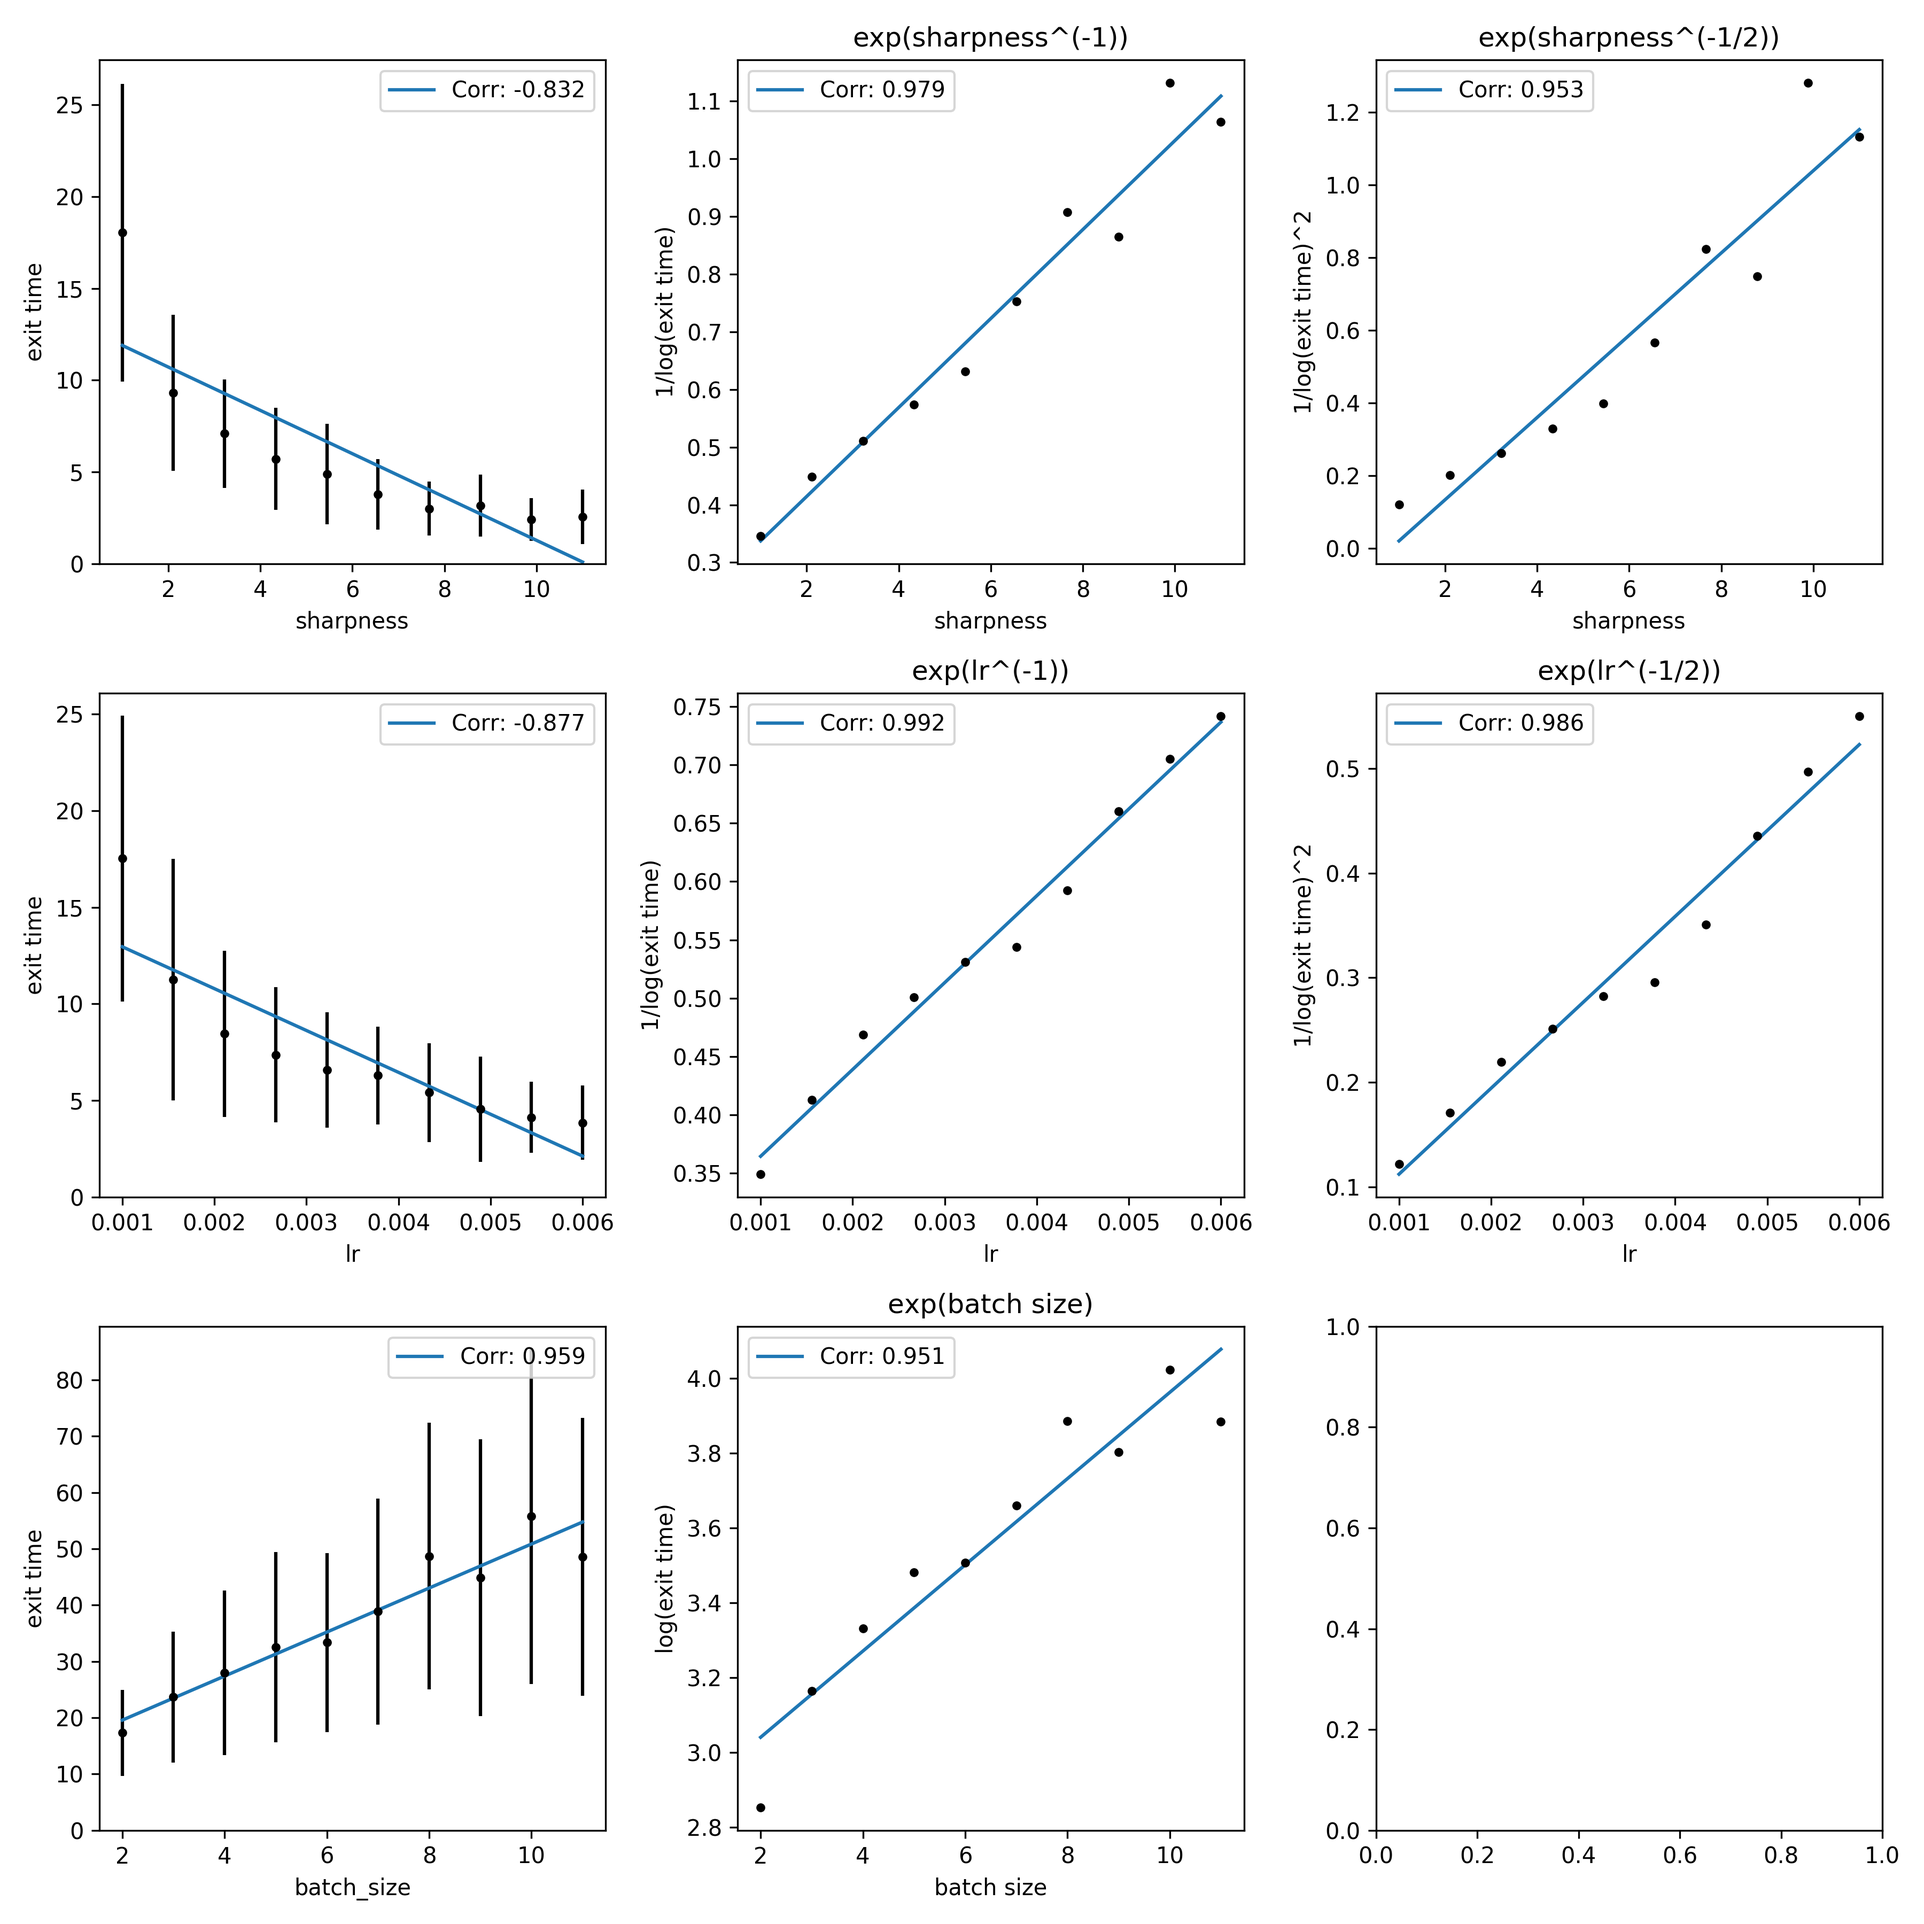
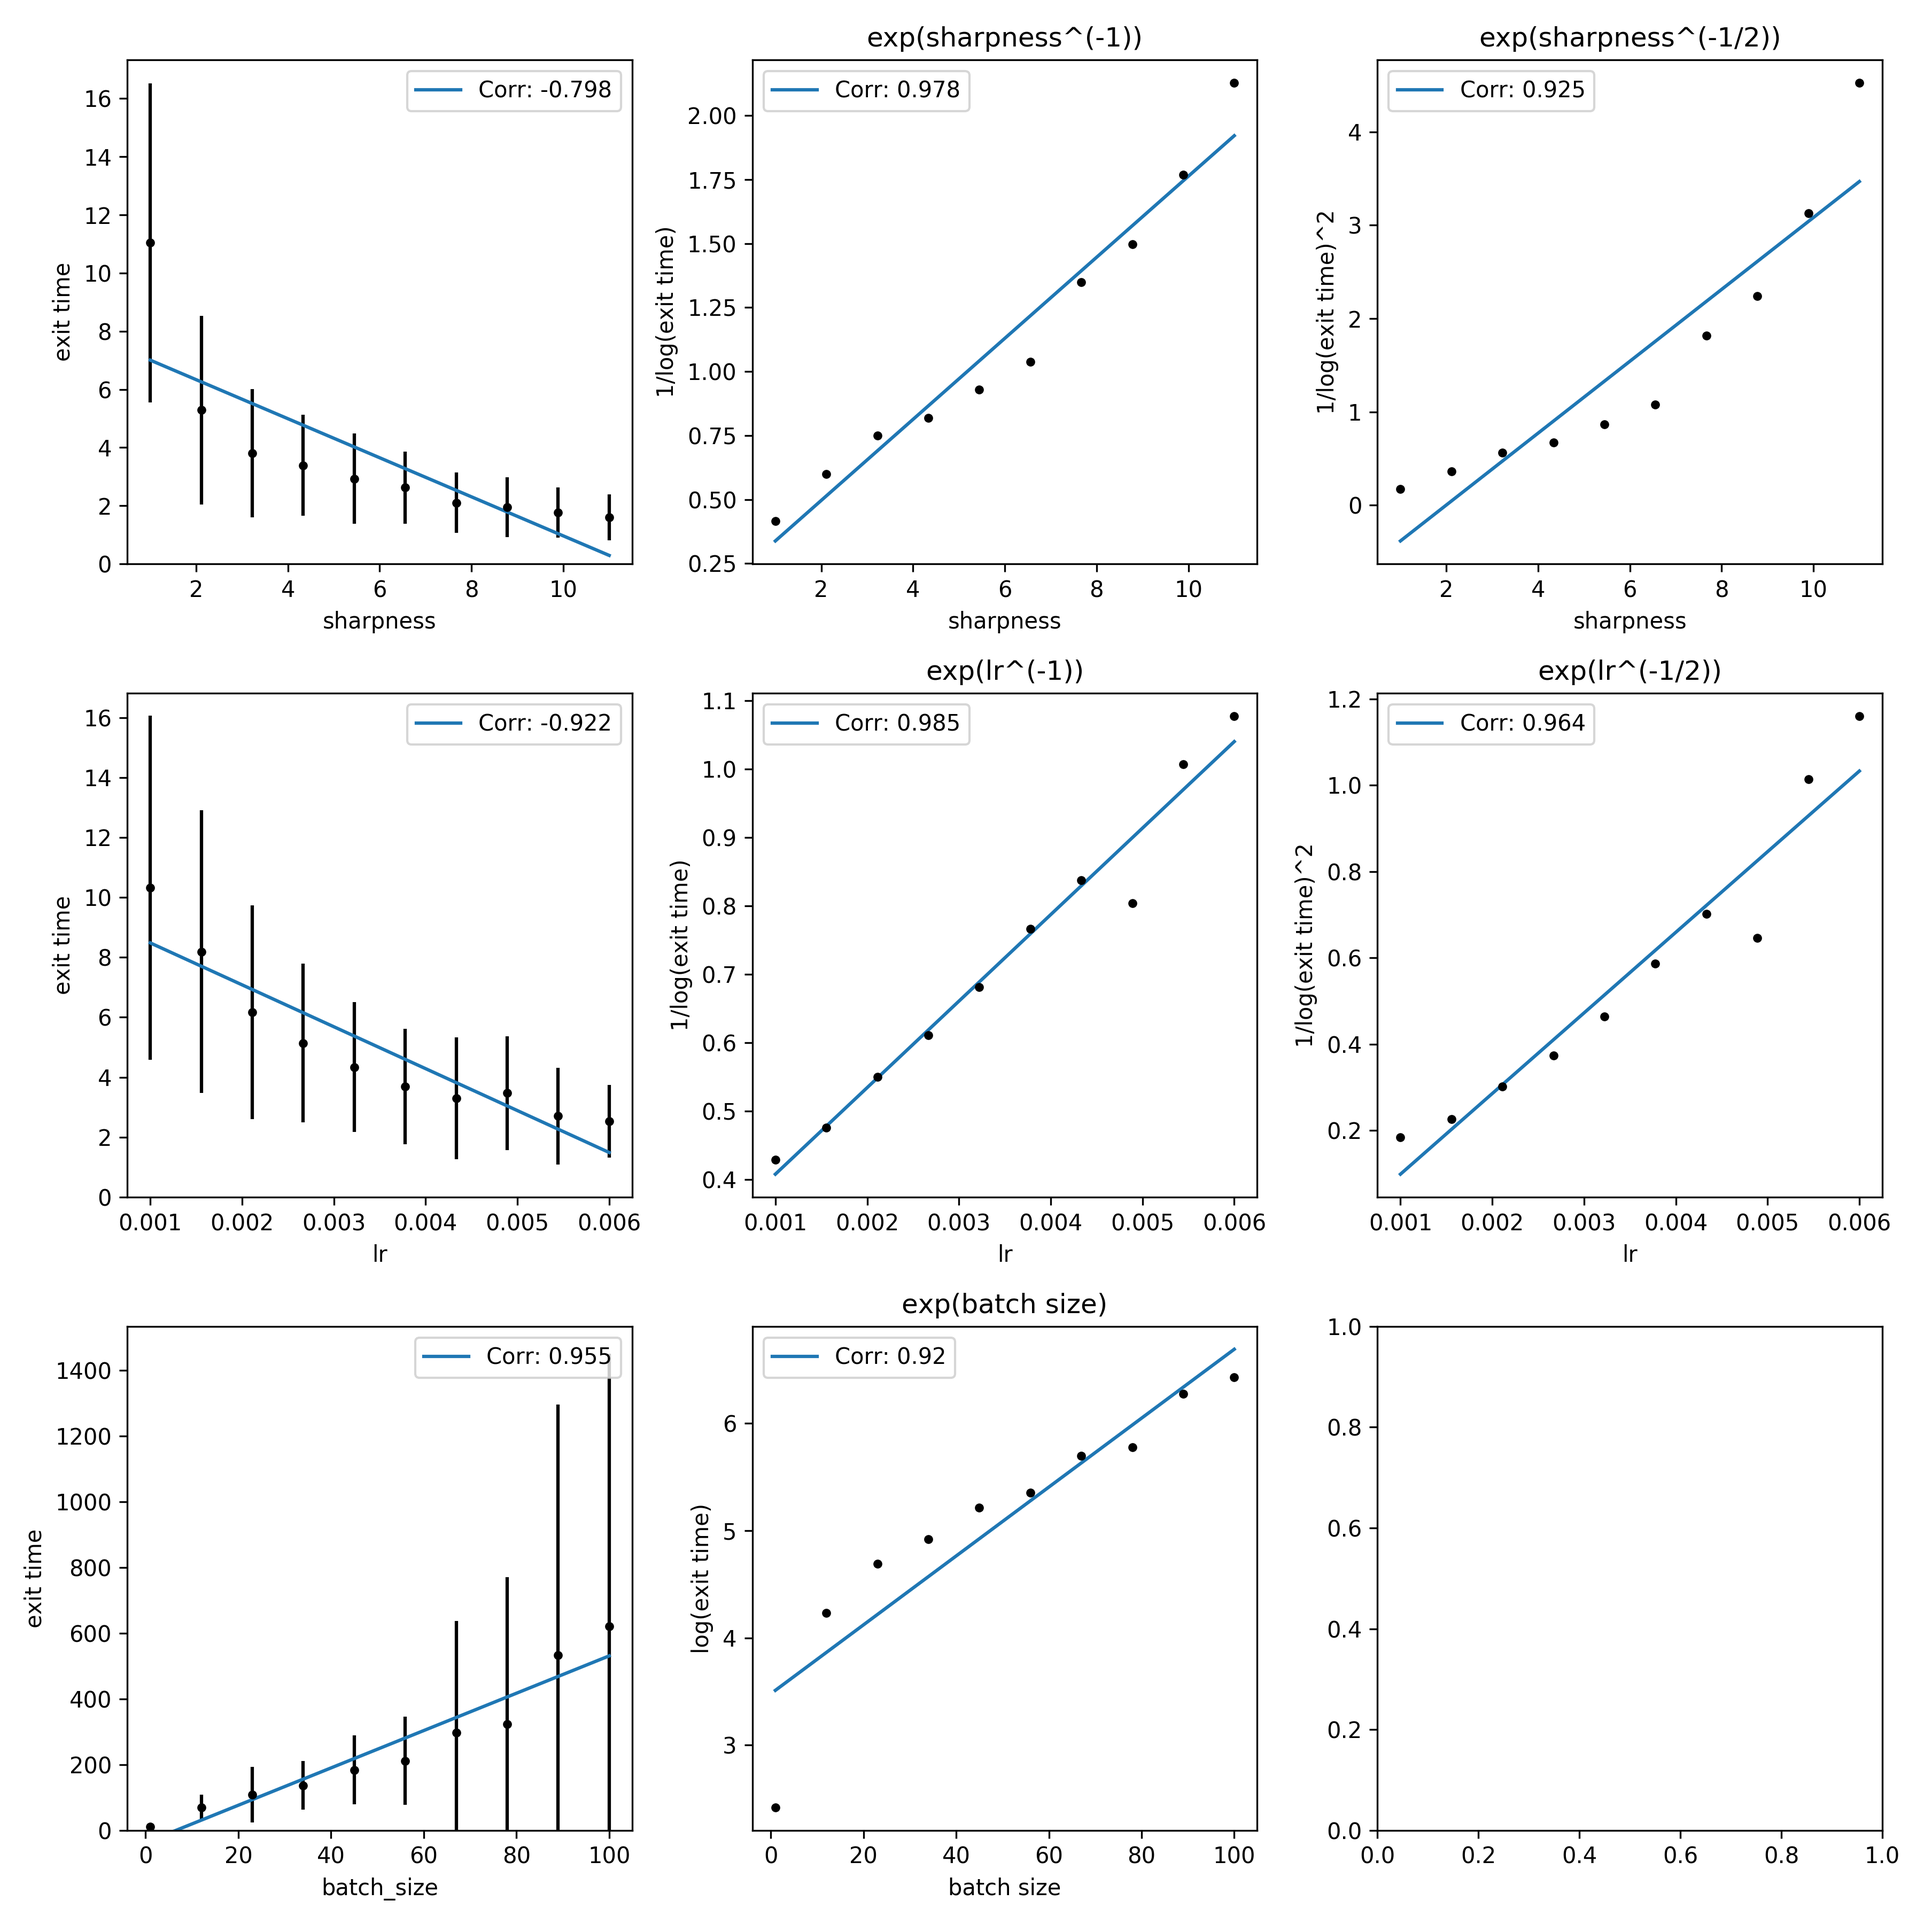
update

diff --git a/exit_time.py b/exit_time.py
@@ -249,21 +249,7 @@ def draw(sharpness_results, lr_results, batch_size_results):
     ax3[1].plot(x_2, m_2*x_2 + c_2)
     ax3[1].legend([f'Corr: {coeff_2:.3g}'])
     ax3[1].set_title(f'exp(batch size)')
-    #
-    # x_3 = x
-    # y_3 = 1/(np.log(y)**2)
-    # coeff_3, _ = stats.pearsonr(x_3, y_3)
-    # A = np.vstack([x_3, np.ones(len(x_3))]).T
-    # m_3, c_3 = np.linalg.lstsq(A, y_3, rcond=None)[0]
-    # ax3[2].set_xlabel("lr")
-    # ax3[2].set_ylabel("1/log(exit time)^2")
-    # ax3[2].errorbar(x_3, y_3, yerr=std*0, fmt='.k') 
-    # ax3[2].plot(x_3, m_3*x_3 + c_3)
-    # ax3[2].legend([f'Corr: {coeff_3:.3g}'])
-    # ax3[2].set_title(f'exp(lr^(-1/2))')
-    # draw_subfig(ax3, *batch_size_results, "batch_size")
 
-    # plt.suptitle(datetime.datetime.now().strftime('    %H:%M:%S'))
     plt.tight_layout()
     plt.show()
     fig.savefig("results.png",dpi=300)
@@ -284,8 +270,8 @@ def main():
     config['r'] = 0.001 
     config['lr_min'] = 0.001
     config['lr_interval'] = 0.005 
-    config['batch_size_min'] = 2 
-    config['batch_size_interval'] = 10 
+    config['batch_size_min'] = 1 
+    config['batch_size_interval'] = 100 
     config['exit_trial_num'] = 100 
     config['interval_sample'] = 10 
     config['optim'] = "SGD"
